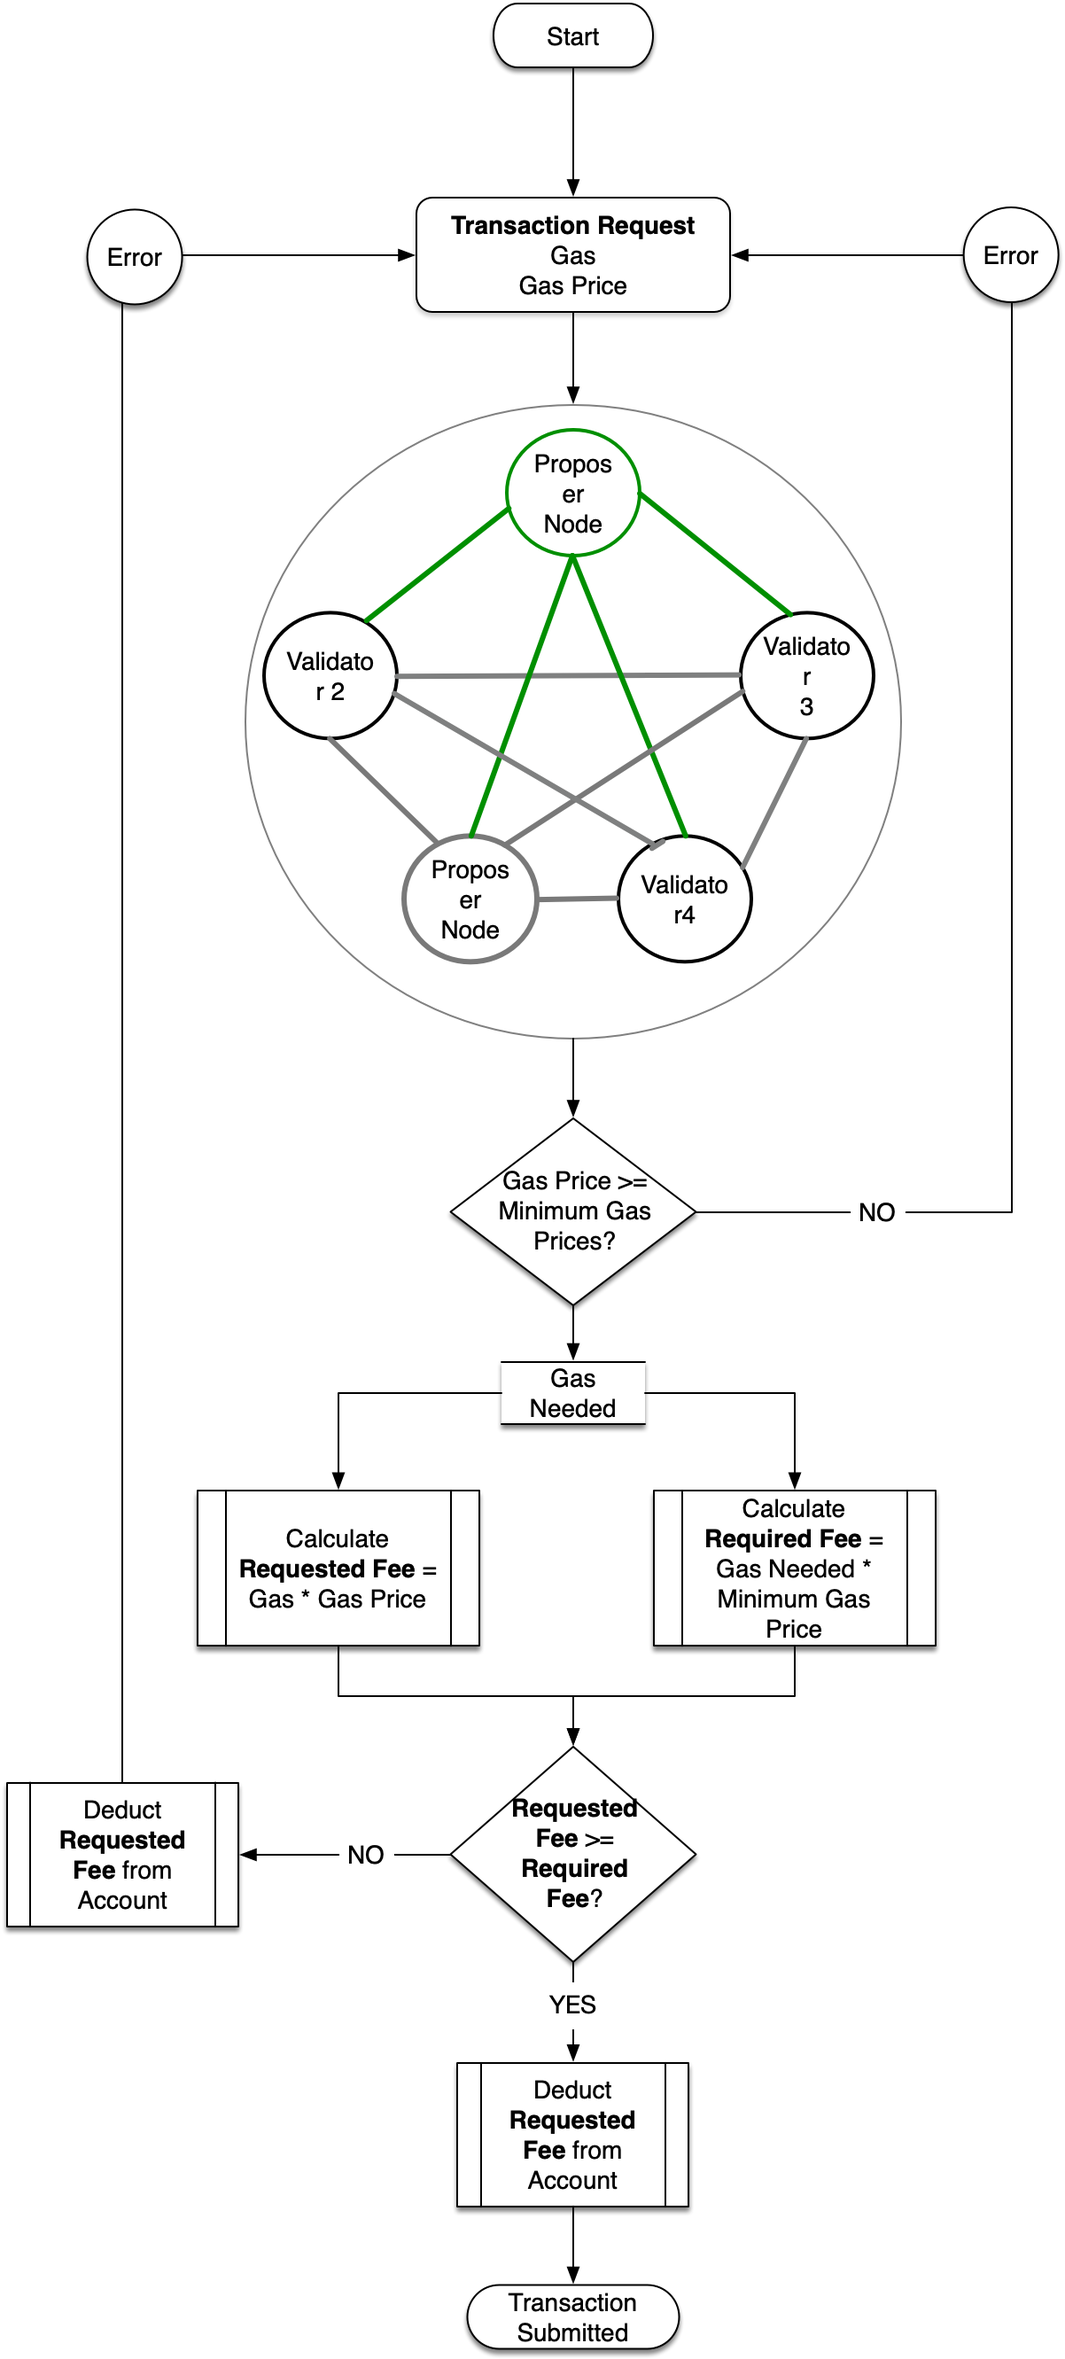
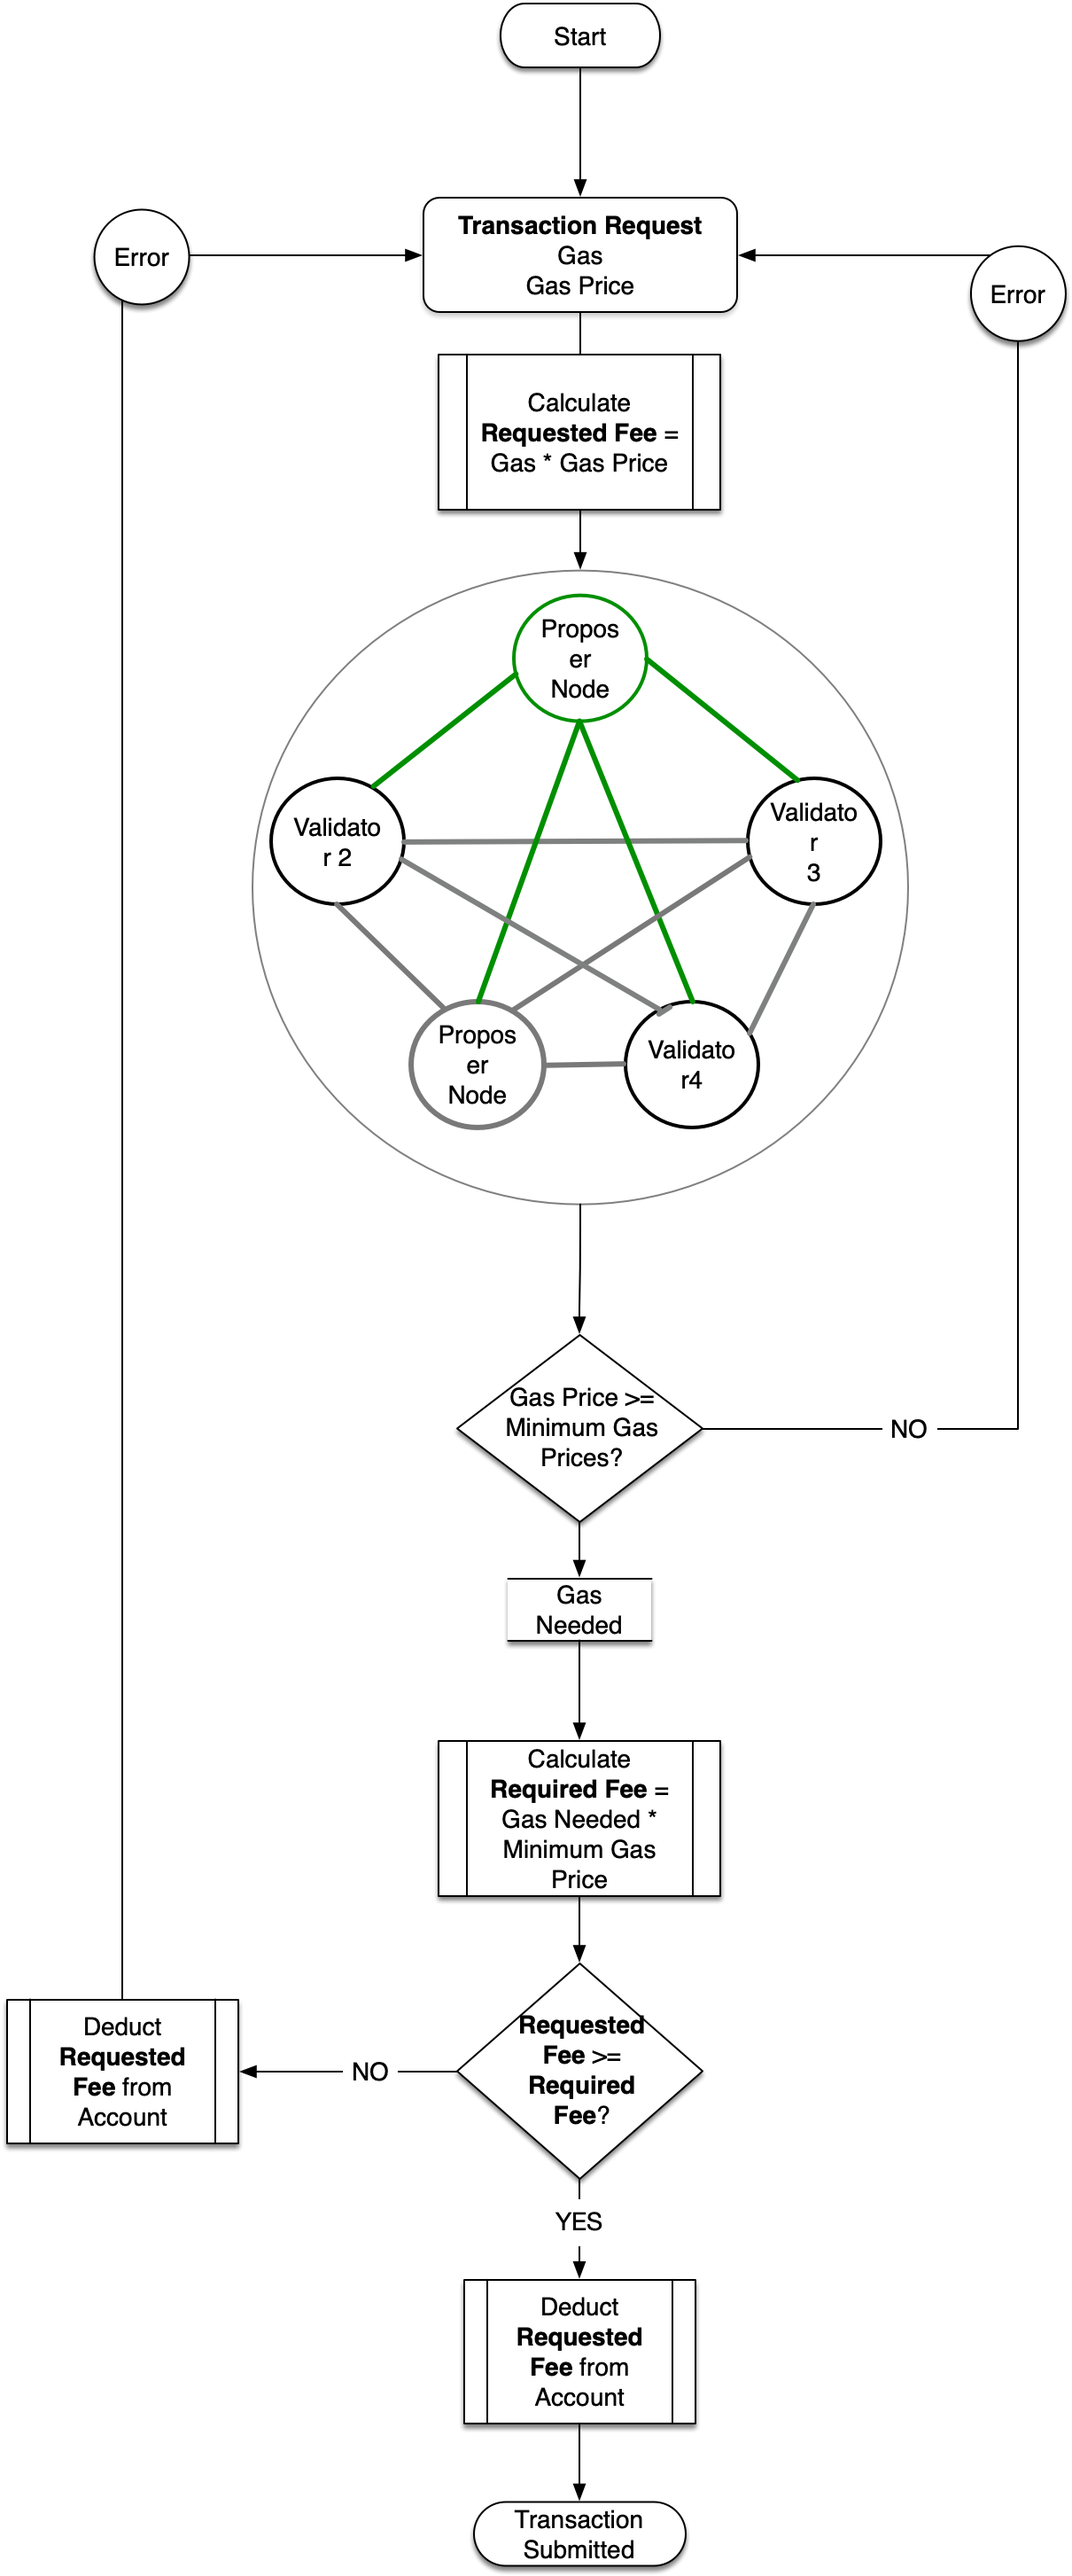
GitBook: [master] 113 pages and 4 assets modified

diff --git a/blockchain/basics/gas-and-fees.md b/blockchain/basics/gas-and-fees.md
@@ -10,20 +10,26 @@ Gas is a consumable that is used to power the Provenance blockchain. Each execut
 Refer to the [Fees/Distribution section](../../operations/distribution.md) for information on how the Provenance fee economy operates.
 {% endhint %}
 
-## Gas Definition
+{% hint style="info" %}
+For an in-depth understanding of the transaction lifecycle and how and when a Cosmos SDK-based application does fee checks refer to [Transaction Lifecycle.](transaction-lifecycle.md)
+{% endhint %}
 
-On Provenance, [`gas` is a special unit that is used to track the consumption of resources ](https://docs.cosmos.network/master/basics/gas-fees.html)during transaction execution. `gas` is typically consumed whenever read and writes are made to a Provenance state store, but it can also be consumed if expensive computation needs to be done. It serves two main purposes:
+Fees limit the growth of the state stored by every full node and allow for general purpose censorship of transactions of little economic value. Fees are best suited as an anti-spam mechanism where validators are disinterested in the use of the network and identities of users.
 
-* Make sure blocks are not consuming too many resources and will be finalized. This is implemented by default via the [block gas meter](https://docs.cosmos.network/master/basics/accounts.html#block-gas-meter).
-* Prevent spam and abuse from end-users. `gas` consumed during [`message`](https://docs.cosmos.network/master/building-modules/messages-and-queries.html#messages) execution is typically priced, resulting in a `fee` \(`fees = gas * gas-prices`\). `fees` generally have to be paid by the sender of the `message`.
+Fees are determined by the gas limits and gas prices transactions provide, where`fees = ceil(gasLimit * gasPrices)`. Transactions incur gas costs for all state reads/writes, signature verification, as well as costs proportional to the transaction size \(this is known as `gas needed`\). Node operators set minimum gas prices when starting their nodes. If a minimum gas price is not set Provenanced defaults to `0.025nhash`.
+
+When adding transactions to the [mempool or gossipping transactions](transaction-lifecycle.md), validators check if the transaction's gas prices, which are determined by the provided fees, meet the validator's minimum gas prices.
+
+Thus, on Provenance, [`gas` is a special unit that is used to track the consumption of resources ](https://docs.cosmos.network/master/basics/gas-fees.html)during transaction execution to ensure:
+
+* Blocks are not consuming too many resources and will be finalized.
+* No spam or abuse from end-users.
 
 ## Gas Flow
 
 When an end-user account submits a transaction request, they must indicate 2 of the 3 following parameters \(the third one being implicit\): `fees`, `gas` and `gas-prices`. This signals how much they are willing to pay for nodes to execute their transaction.
 
-Provenance will verify that the gas prices provided with the transaction is greater than the node's `min-gas-prices` \(as a reminder, gas-prices can be deducted from the following equation: `fees = gas * gas-prices`\). `min-gas-prices` is a parameter local to each full-node and used to discard transactions that do not provide a minimum amount of fees. This ensures that the blockchain is not spammed with garbage transactions.
-
-Provenance will use the transaction request gas parameters to determine if the transaction can be submitted.
+Provenance will verify that the gas prices provided with the transaction is greater than the node\(s\) `min-gas-prices` \(as a reminder, gas-prices can be deducted from the following equation: `fees = gas * gas-prices`\). `min-gas-prices` is a parameter local to each full-node and used to discard transactions that do not provide a minimum amount of fees. This ensures that the blockchain is not spammed with garbage transactions.
 
 ![Conceptual Gas Flow](../../.gitbook/assets/image%20%2813%29.png)
 
@@ -34,14 +40,31 @@ The Conceptual Gas Flow diagram illustrates the transaction request gas calculat
   * The maximum **Gas Price** the requestor is willing to pay.
   * A **Requested Fee** is calculated as **`Gas * Gas Price`**.
 * The Transaction Request is submitted to a node, which in turn may submit it to other nodes until it reaches a validator node.  Each validator node sets their own **Minimum Gas Price.** 
-* Provenance will validate that the requested **Gas Price** is &gt;= **Minimum Gas Prices** for all nodes involved.
+* Provenance will validate that the requested **Gas Price** is &gt;= **Minimum Gas Prices** for all selected nodes involved.
   * If the requested **Gas Price** is too low, the transaction is rejected and an error is sent back to the requestor.
 * Based on the transaction type and size, a **Gas Needed** amount is calculated by Provenance.
 * Provenance calculates a **Required Fee** as `Gas Needed * Minimum Gas Price`.
-* If the **Requested Fee** is &gt;= **Required Fee** the **Requested Fee** is deducted from the requestor's account and the transaction is submitted.
-* If the **Requested Fee** is &lt; **Required Fee** the **Requested Fee** is deducted from the requestor's account, the transaction is marked as error, and an error is returned to the requestor.
+* If the **Requested Fee** &gt;= **Required Fee** the **Requested Fee** is deducted from the requestor's account and the transaction is submitted.
+* If the **Requested Fee** &lt; **Required Fee** the **Requested Fee** is deducted from the requestor's account, the transaction is marked as error, and an error is returned to the requestor.
 
-### Gas Examples
+### Sample Scenarios
+
+The following table illustrates sample gas scenarios, whether the transaction is submitted, and the net affect on the account's balance:
+
+| Txn | Gas | Gas Price | Fee | Gas Needed | Min Gas Price | Req Fee | Result | Beg Bal | Fee Paid | End Bal |
+| :--- | :--- | :--- | :--- | :--- | :--- | :--- | :--- | :--- | :--- | :--- |
+| 1 | 5,000 | 0.0025 | 12.5 | 5,000 | 0.025 | 125 | **Error: Gas Price &lt; Min Gas Price** | 100,000 | **0** | 100,000 |
+| 2 | 5,000 | 0.025 | 125 | 5,000 | 0.025 | 125 | Success: Submitted | 100,000 | 125 | 99,875 |
+| 3 | 5000 | 1.000 | 5000 | 6,000 | 0.025 | 150 | **Error: Gas &lt; Gas Needed** | 99,875 | **5,000** | 94,875 |
+| 4 | 10,000 | 0.025 | 250 | 8,000 | 0.025 | 200 | Success: Submitted | 94,875 | 250 | 94,625 |
+| 5 | 8,000 | 0.05 | 400 | 6,000 | 0.075 | 450 | **Error: Gas Price &lt; Min Gas Price** | 94,625 | **0** | 94,625 |
+| 6 | 6,000 | 0.1 | 600 | 6,000 | 0.075 | 450 | Success: Submitted | 94,625 | 600 | 94,025 |
+
+## Demonstration of Gas and Fees
+
+{% hint style="info" %}
+To follow along with this section refer to [Installing Provenance](../running-a-node/) to install the `provenanced` binary.
+{% endhint %}
 
 Let's try this out.  First, let's create a local key pair and address:
 
@@ -59,7 +82,7 @@ provenanced --testnet keys add gas_example
   pubkeys: []
 ```
 
-Now, let's use the Provenance Faucet to transfer Hash to our address:
+Now, let's use the [Provenance Faucet](https://explorer.test.provenance.io/faucet) to transfer Hash to our address:
 
 ```bash
 curl 'https://test.provenance.io/blockchain/faucet/external'  \
@@ -80,10 +103,15 @@ balances:
   denom: nhash
 ```
 
+{% hint style="info" %}
+What is `nhash`?  `nhash` is the smallet unit of Hash, a nano-Hash, where 1 Hash = 1,000,000,000 `nhash`.   
+{% endhint %}
+
 Next, let's estimate the `gas` requirements for a `1nhash` Hash transfer transaction from our account:
 
 ```bash
 provenanced --testnet tx bank send tp1hn42260zk29s8kfqy55pfzv0e2frvykvl886p6 tp1qgjnuqnrqwhg2kfl0dk9rhkcga5lehns2hdycm 1nhash \
+  --node=tcp://rpc-0.test.provenance.io:26657
   --chain-id pio-testnet-1 \
   --gas 65000 \
   --gas-prices 1nhash \
@@ -91,14 +119,91 @@ provenanced --testnet tx bank send tp1hn42260zk29s8kfqy55pfzv0e2frvykvl886p6 tp1
 ```
 
 ```bash
-gas estimate: 66347
+gas estimate: 63094
 ```
 
-Now, let's set our transaction request gas parameters at that gas estimate:
+Let's set our `gas-price` too low and see the affect on our account `nhash` balance:
 
 ```bash
-
+provenanced --testnet tx bank send tp1hn42260zk29s8kfqy55pfzv0e2frvykvl886p6 tp1qgjnuqnrqwhg2kfl0dk9rhkcga5lehns2hdycm 1nhash \
+  --node=tcp://rpc-0.test.provenance.io:26657 \
+  --chain-id pio-testnet-1 \
+  --gas 65000 \
+  --gas-prices 0.0025nhash
 ```
 
+```bash
+{
+  "height": "0",
[1 lines of base64/hex data omitted]
+  "codespace": "sdk",
+  "code": 13,
+  "data": "",
+  "raw_log": "insufficient fees; got: 163nhash required: 1625nhash: insufficient fee",
+  "logs": [],
+  "info": "",
+  "gas_wanted": "65000",
+  "gas_used": "0",
+  "tx": null,
+  "timestamp": ""
+}
+```
 
+This had no affect on our account balance:
+
+```bash
+provenanced --testnet query bank balances tp1hn42260zk29s8kfqy55pfzv0e2frvykvl886p6 \
+  --node=tcp://rpc-0.test.provenance.io:26657
+```
+
+```bash
+balances:
+- amount: "1000000000"
+  denom: nhash
+```
+
+Now, let's set our `gas-price` to a value equal to the `min-gas-prices` for the nodes but set our `gas` lower than the gas estimate:
+
+```bash
+provenanced --testnet tx bank send tp1hn42260zk29s8kfqy55pfzv0e2frvykvl886p6 tp1qgjnuqnrqwhg2kfl0dk9rhkcga5lehns2hdycm 1nhash \
+  --node=tcp://rpc-0.test.provenance.io:26657 \
+  --chain-id pio-testnet-1 \
+  --gas 60000 \
+  --gas-prices 0.025nhash  
+```
+
+```bash
+{
+  "height": "270671",
[1 lines of base64/hex data omitted]
+  "codespace": "sdk",
+  "code": 11,
+  "data": "",
+  "raw_log": "out of gas in location: WritePerByte; gasWanted: 60000, gasUsed: 60071: out of gas",
+  "logs": [],
+  "info": "",
+  "gas_wanted": "60000",
+  "gas_used": "60071",
+  "tx": null,
+  "timestamp": ""
+}
+```
+
+Notice that the `gas_wanted` is lower than the `gas_used` and as a result, the transaction returned an error.  Also notice that the `gas_used` price fluctuated from our original `gas estimate` - note that gas will fluctuate.
+
+Also notice that even though we received an error response, the transaction was submitted \(marked as error\) and our account was charged the a fee of `1,500` for the `gas_wanted` amount where `1,500(fee) = 60,000 (gas) * 0.025 (gas-price)`
+
+```bash
+provenanced --testnet query bank balances tp1hn42260zk29s8kfqy55pfzv0e2frvykvl886p6 \                                          
+  --node=tcp://rpc-0.test.provenance.io:26657 
+```
+
+```bash
+balances:
+- amount: "999998500"
+  denom: nhash
+pagination:
+  next_key: null
+  total: "0"
+```
 
